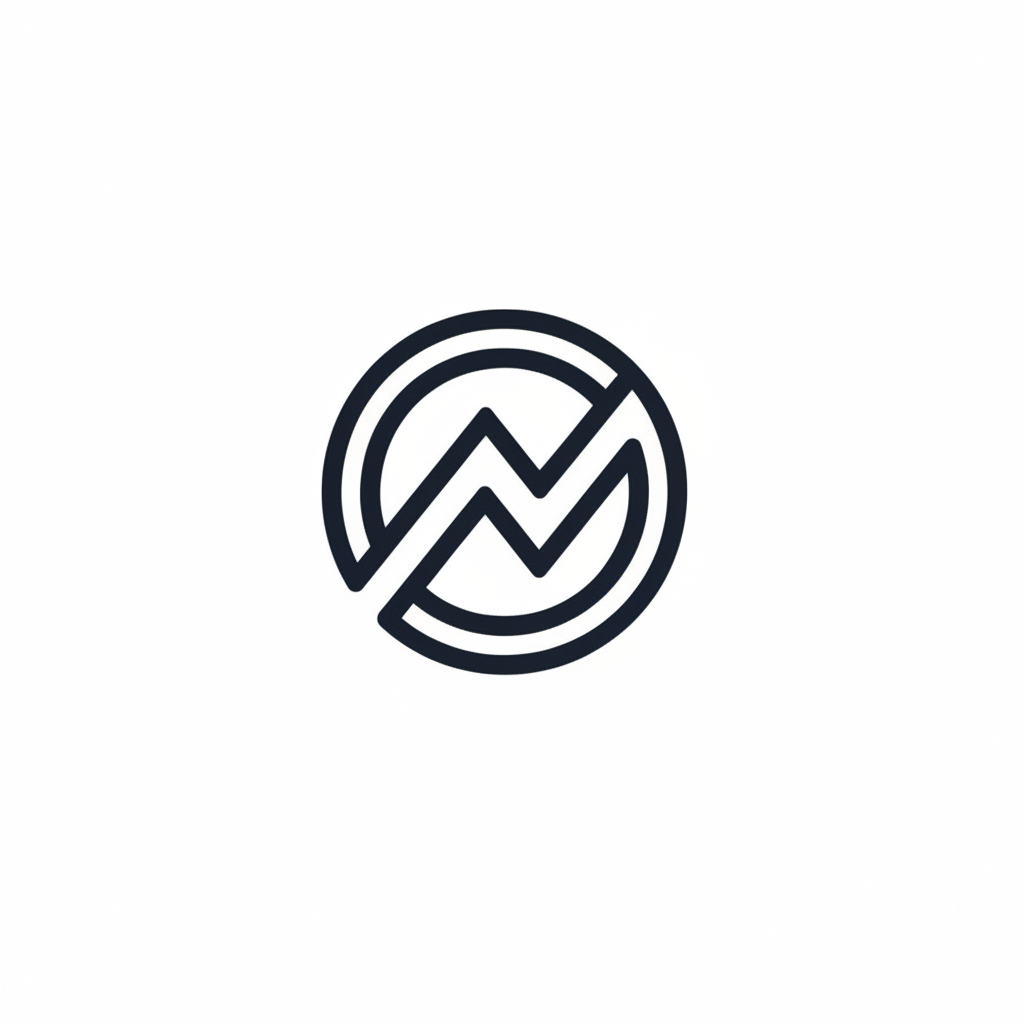
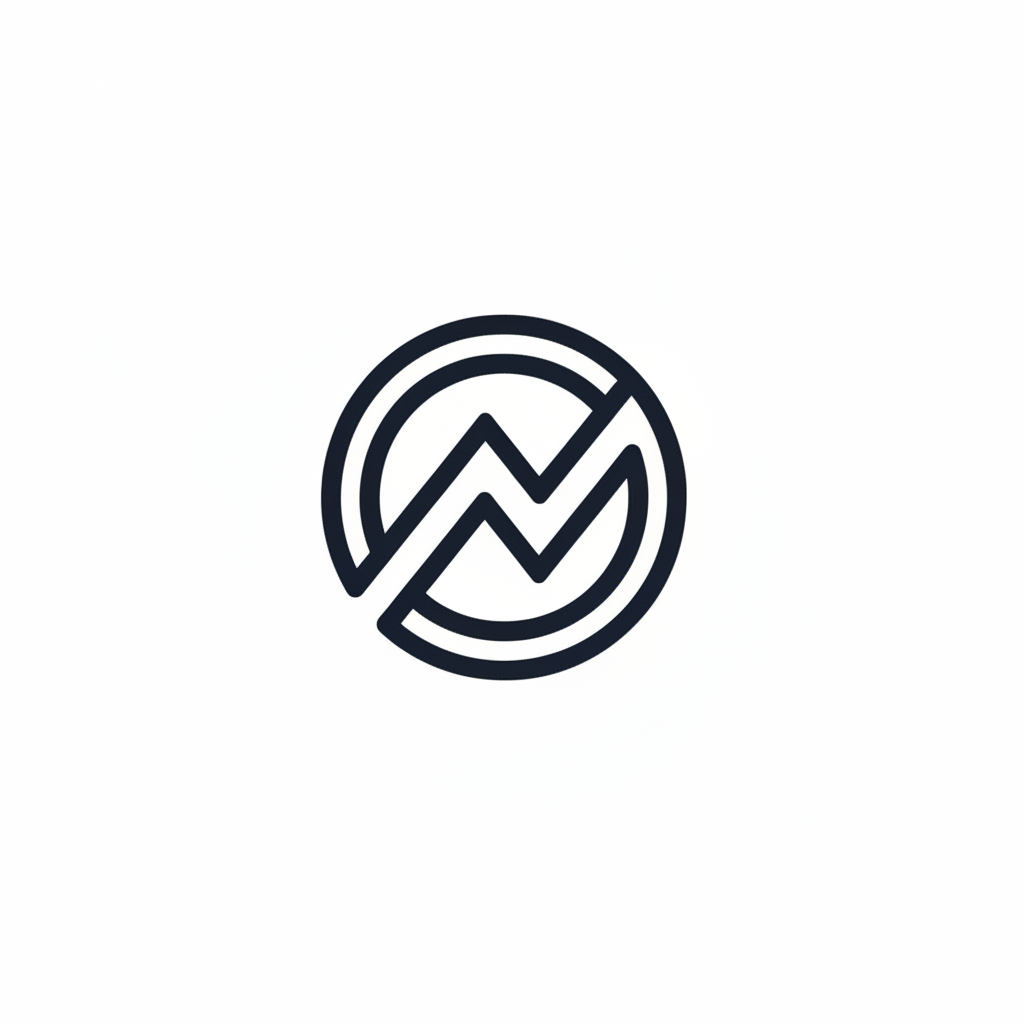
Changes

Changed region(s): [[0.3125, 0.2812, 0.6875, 0.6875]]

diff --git a/src/components/Loader.tsx b/src/components/Loader.tsx
@@ -23,7 +23,7 @@ const Loader = ({ onComplete }: { onComplete: () => void }) => {
         <img
           src={cenderroIcon}
           alt="Cenderro"
-          className="h-20 w-20"
+          className="h-28 w-28"
         />
       </div>
       <p className="mt-6 loader-text font-display text-lg font-semibold tracking-tight text-foreground">
